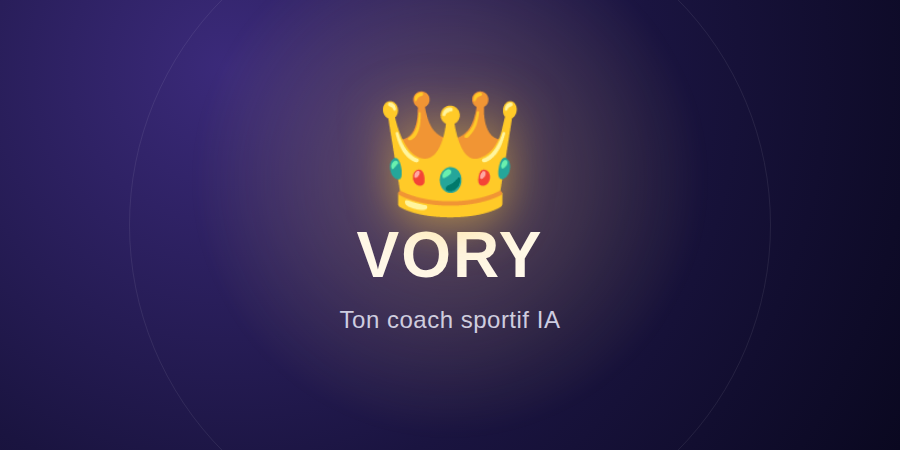
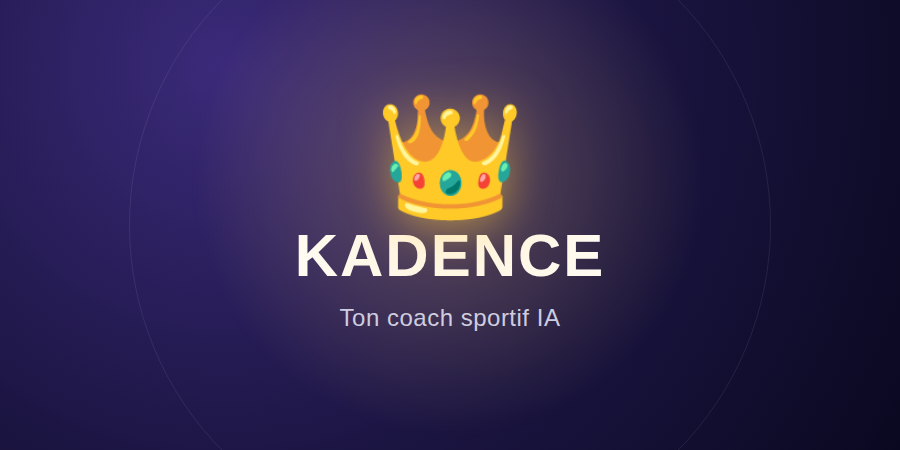
Termine le renommage "Vory" -> "Kadence" (fichiers restants)
Le commit precedent n'a pousse que le deplacement du package Java
Android suite a une erreur silencieuse de git add (chemin invalide dans
la meme commande). Ce commit ajoute le reste : nom affiche (web/PWA/
manifest/strings Android), namespace/applicationId Gradle, cle de
stockage du token, et l'image hero regeneree.

Changed region(s): [[0.3111, 0.1867, 0.6844, 0.6222], [0.3733, 0.6844, 0.6222, 0.7467]]

diff --git a/sports-coach/packages/frontend/index.html b/sports-coach/packages/frontend/index.html
@@ -6,11 +6,11 @@
     <meta name="theme-color" content="#4f46e5" />
     <meta name="apple-mobile-web-app-capable" content="yes" />
     <meta name="apple-mobile-web-app-status-bar-style" content="default" />
-    <meta name="apple-mobile-web-app-title" content="Vory" />
+    <meta name="apple-mobile-web-app-title" content="Kadence" />
     <link rel="manifest" href="%BASE_URL%manifest.json" />
     <link rel="apple-touch-icon" href="%BASE_URL%icon-192.png" />
     <link rel="icon" type="image/png" sizes="192x192" href="%BASE_URL%icon-192.png" />
-    <title>Vory</title>
+    <title>Kadence</title>
   </head>
   <body>
     <div id="root"></div>

diff --git a/sports-coach/packages/frontend/src/App.tsx b/sports-coach/packages/frontend/src/App.tsx
@@ -34,7 +34,7 @@ function ProtectedLayout({ children }: { children: React.ReactNode }) {
         <nav className="sticky top-0 z-10 flex items-center justify-between border-b border-slate-200 bg-white/85 px-4 py-3 backdrop-blur-md">
           <div className="flex items-center gap-1 sm:gap-2">
             <span className="mr-2 hidden text-lg font-extrabold tracking-tight text-slate-900 sm:inline">
-              👑 Vory
+              👑 Kadence
             </span>
             {NAV_LINKS.map((link) => {
               const active = location.pathname === link.to;

diff --git a/sports-coach/packages/frontend/src/lib/api.ts b/sports-coach/packages/frontend/src/lib/api.ts
@@ -32,7 +32,7 @@ const API_BASE_URL = import.meta.env.VITE_API_URL ?? "";
 // cookies cross-site meme corrects (SameSite=None + Secure). Un token
 // stocke cote client et envoye via un header Authorization fonctionne de
 // maniere fiable sur tous les navigateurs et dans l'app mobile.
-const AUTH_TOKEN_KEY = "vory_auth_token";
+const AUTH_TOKEN_KEY = "kadence_auth_token";
 
 function getAuthToken(): string | null {
   return localStorage.getItem(AUTH_TOKEN_KEY);

diff --git a/sports-coach/packages/frontend/src/features/auth/RegisterPage.tsx b/sports-coach/packages/frontend/src/features/auth/RegisterPage.tsx
@@ -30,7 +30,7 @@ export function RegisterPage() {
     <div className="mx-auto flex min-h-screen max-w-sm flex-col justify-center gap-6 px-4 py-10">
       <img
         src={`${import.meta.env.BASE_URL}images/hero-auth.png`}
-        alt="Vory"
+        alt="Kadence"
         className="w-full rounded-2xl shadow-lg shadow-indigo-900/10"
       />
       <h1 className="text-3xl font-bold text-slate-900">Creer un compte</h1>

diff --git a/sports-coach/packages/frontend/src/features/auth/LoginPage.tsx b/sports-coach/packages/frontend/src/features/auth/LoginPage.tsx
@@ -30,7 +30,7 @@ export function LoginPage() {
     <div className="mx-auto flex min-h-screen max-w-sm flex-col justify-center gap-6 px-4 py-10">
       <img
         src={`${import.meta.env.BASE_URL}images/hero-auth.png`}
-        alt="Vory"
+        alt="Kadence"
         className="w-full rounded-2xl shadow-lg shadow-indigo-900/10"
       />
       <h1 className="text-3xl font-bold text-slate-900">Connexion</h1>

diff --git a/sports-coach/packages/frontend/public/sw.js b/sports-coach/packages/frontend/public/sw.js
@@ -1,10 +1,10 @@
 self.addEventListener("push", (event) => {
-  let payload = { title: "Vory", body: "Nouvelle alerte." };
+  let payload = { title: "Kadence", body: "Nouvelle alerte." };
   if (event.data) {
     try {
       payload = event.data.json();
     } catch {
-      payload = { title: "Vory", body: event.data.text() };
+      payload = { title: "Kadence", body: event.data.text() };
     }
   }
 

diff --git a/sports-coach/packages/frontend/capacitor.config.ts b/sports-coach/packages/frontend/capacitor.config.ts
@@ -1,8 +1,8 @@
 import type { CapacitorConfig } from "@capacitor/cli";
 
 const config: CapacitorConfig = {
-  appId: "com.vory.app",
-  appName: "Vory",
+  appId: "com.kadence.app",
+  appName: "Kadence",
   webDir: "dist",
 };
 
